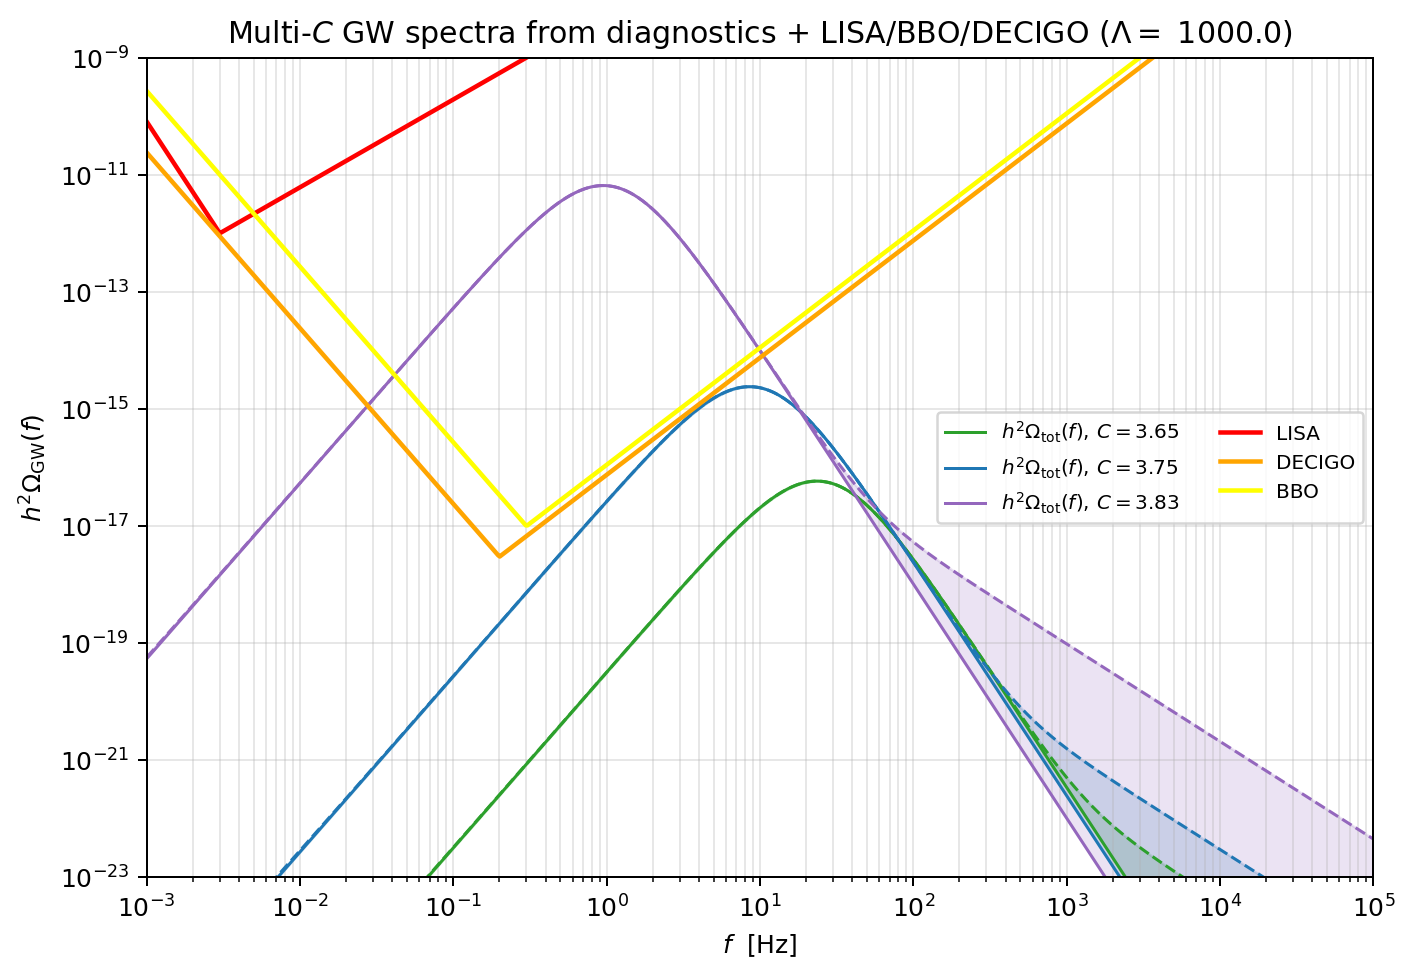
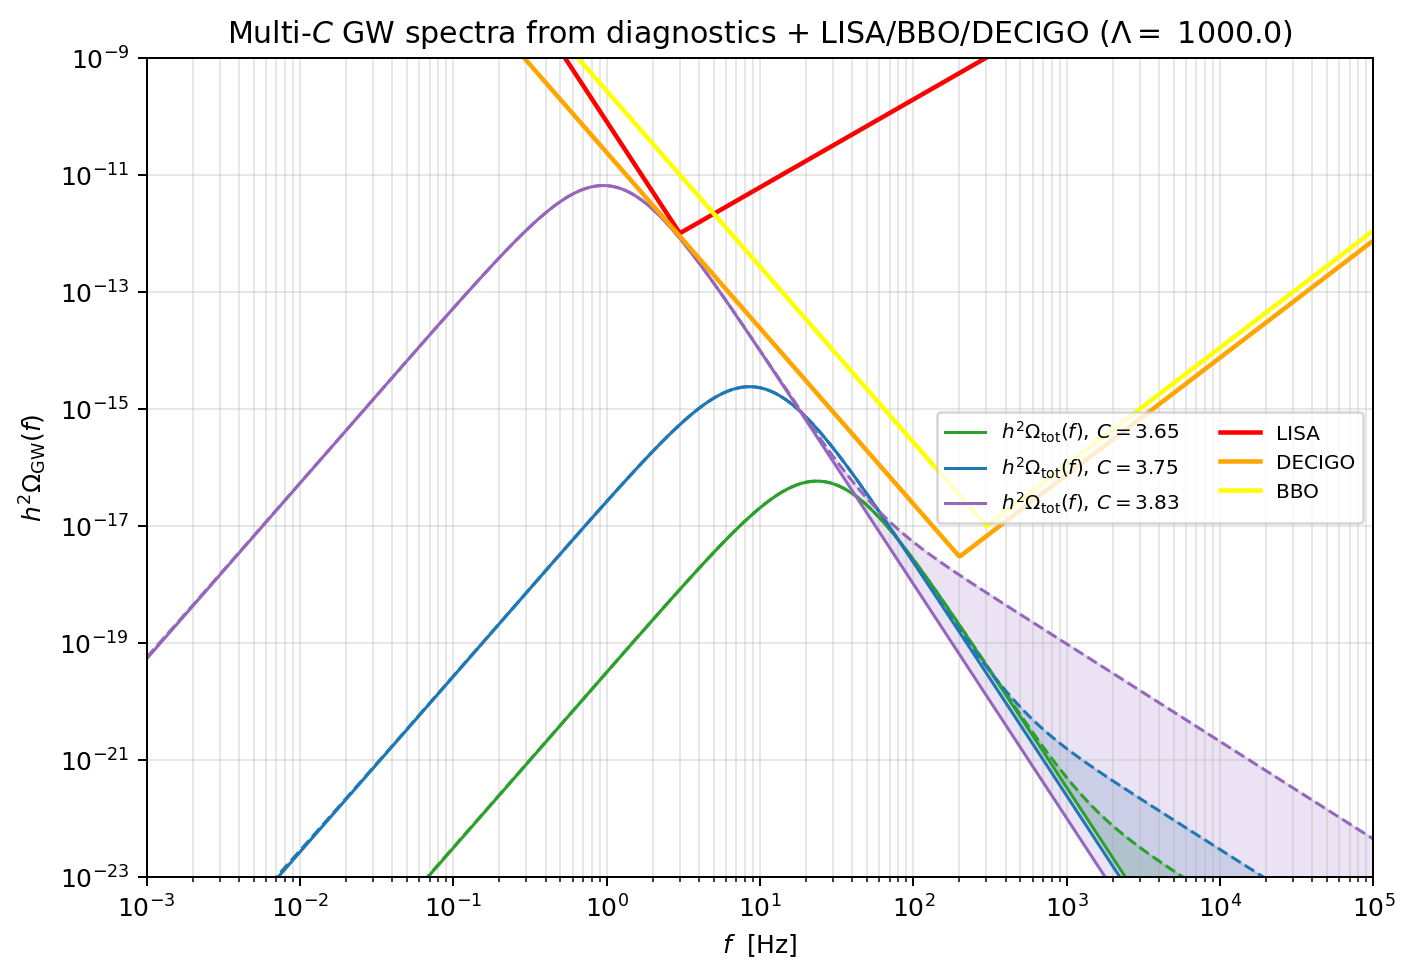
Example Glauber with GW's spectra

diff --git a/docs/examples/Paper_Glauber/gw_multiC_from_diagnostics.py b/docs/examples/Paper_Glauber/gw_multiC_from_diagnostics.py
@@ -130,7 +130,7 @@ def lisa_sensitivity(f: np.ndarray) -> np.ndarray:
     """Curva de sensibilidade mock para LISA."""
     return broken_power_law_sensitivity(
         f=f,
-        f_ref=3e-3,      # ~ alguns mHz
+        f_ref=3,
         omega_min=1e-12, # mínimo em Ω_GW
         slope_low=4.0,
         slope_high=1.5,
@@ -141,7 +141,7 @@ def bbo_sensitivity(f: np.ndarray) -> np.ndarray:
     """Curva de sensibilidade mock para BBO."""
     return broken_power_law_sensitivity(
         f=f,
-        f_ref=0.3,       # ~ 0.1–1 Hz
+        f_ref=300,       # ~ 0.1–1 Hz
         omega_min=1e-17,
         slope_low=3.0,
         slope_high=2.0,
@@ -152,7 +152,7 @@ def decigo_sensitivity(f: np.ndarray) -> np.ndarray:
     """Curva de sensibilidade mock para DECIGO."""
     return broken_power_law_sensitivity(
         f=f,
-        f_ref=0.2,
+        f_ref=200,
         omega_min=3e-18,
         slope_low=3.0,
         slope_high=2.0,